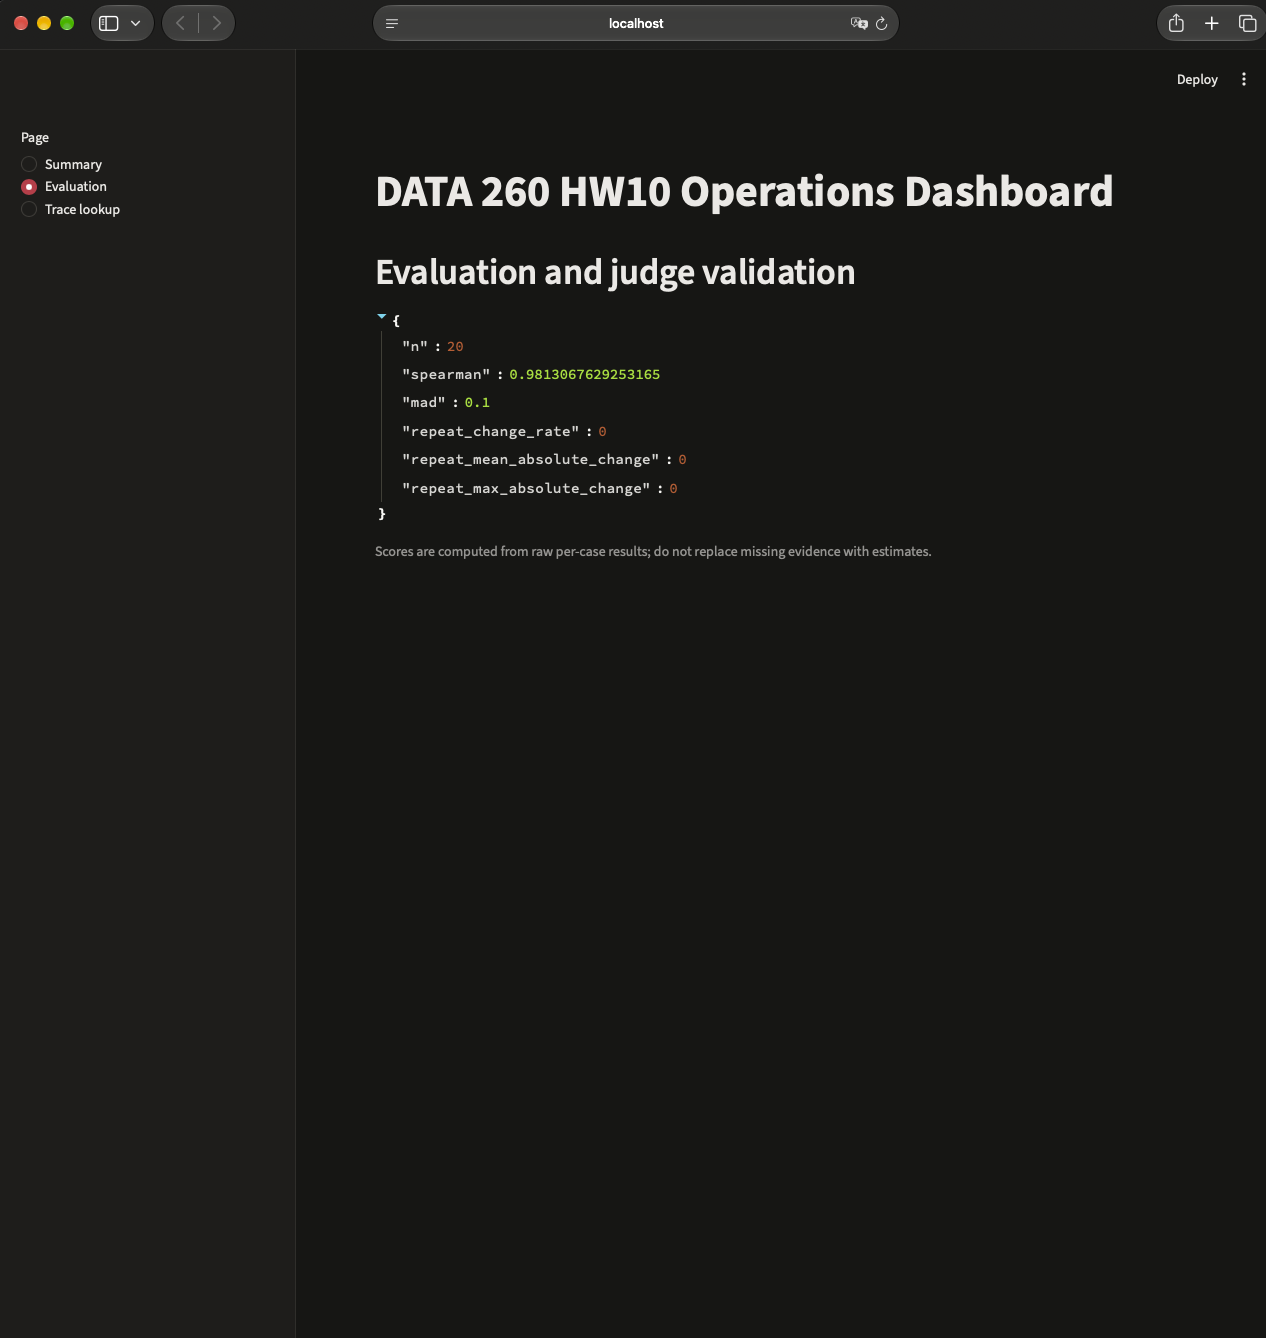
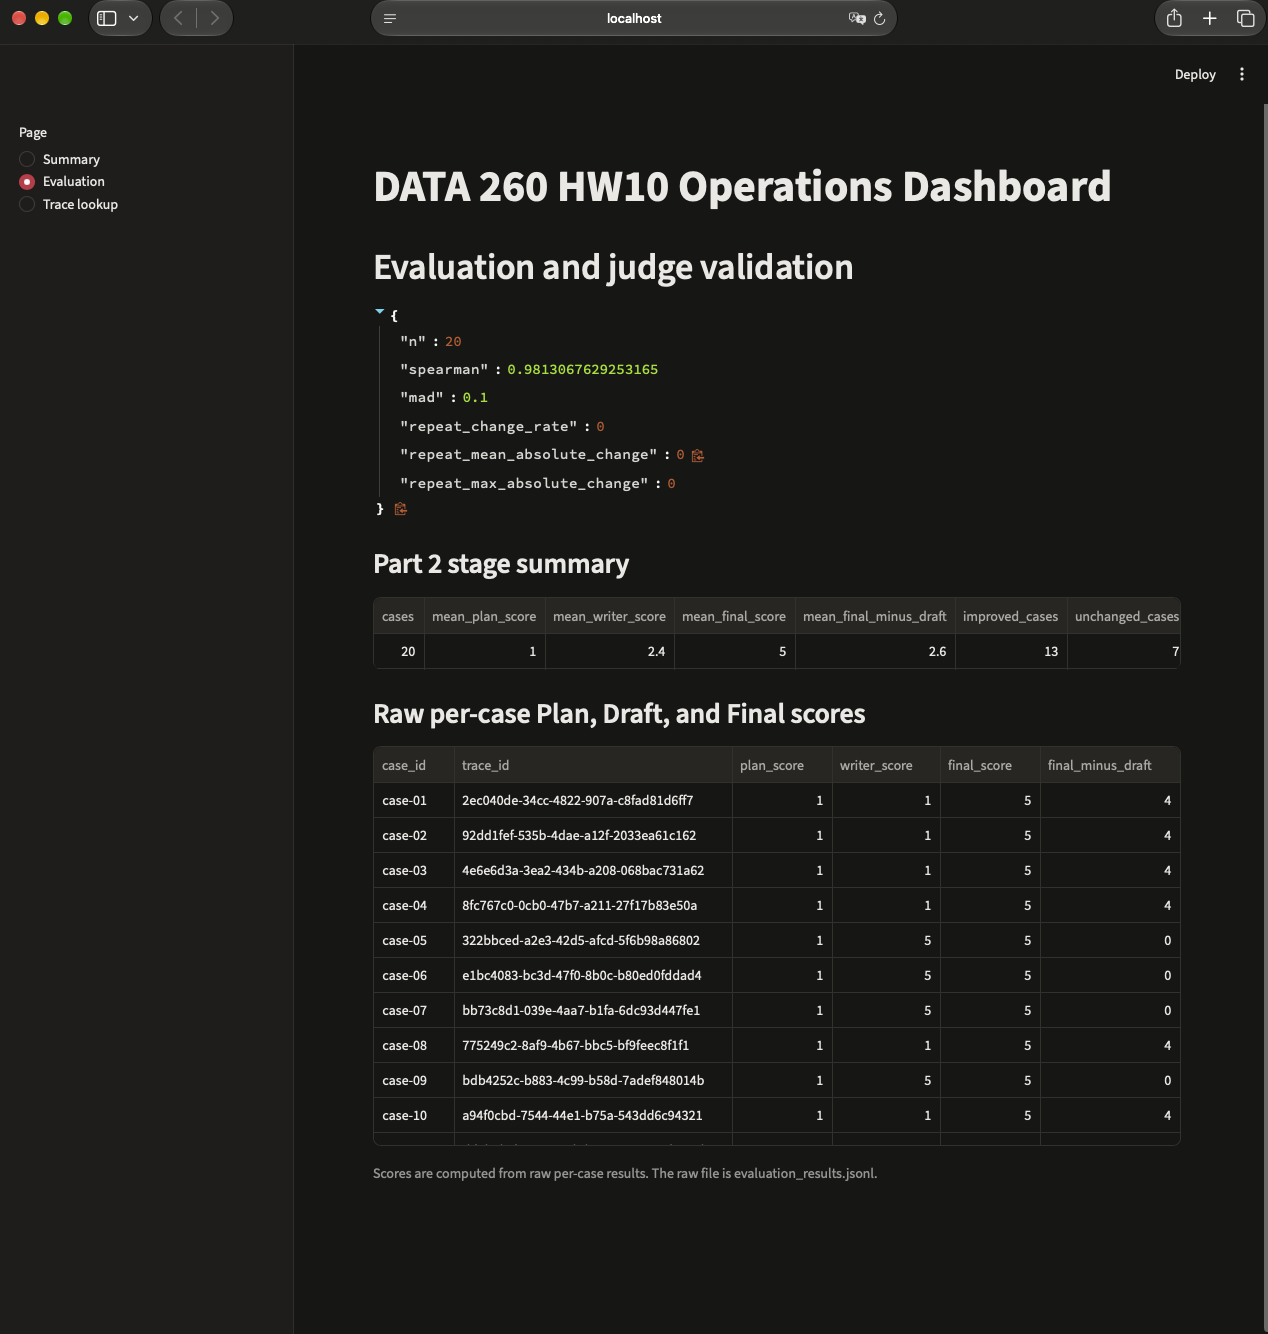
Add Part 2 stage evaluation dashboard

diff --git a/code/hw10/dashboard/app.py b/code/hw10/dashboard/app.py
@@ -69,7 +69,47 @@ if page == "Summary":
 elif page == "Evaluation":
     st.header("Evaluation and judge validation")
     st.json(metrics)
-    st.caption("Scores are computed from raw per-case results; do not replace missing evidence with estimates.")
+
+    part2 = load_json("part2_metrics.json")
+    if part2:
+        st.subheader("Part 2 stage summary")
+        st.dataframe(
+            pd.DataFrame([{
+                "cases": part2.get("n"),
+                "mean_plan_score": part2.get("mean_plan_score"),
+                "mean_writer_score": part2.get("mean_writer_score"),
+                "mean_final_score": part2.get("mean_final_score"),
+                "mean_final_minus_draft": part2.get("mean_final_minus_draft"),
+                "improved_cases": part2.get("improved_cases"),
+                "unchanged_cases": part2.get("unchanged_cases"),
+                "worse_cases": part2.get("worse_cases"),
+            }]),
+            use_container_width=True,
+            hide_index=True,
+        )
+
+    stage_results = load_jsonl("evaluation_results.jsonl")
+    if not stage_results.empty:
+        st.subheader("Raw per-case Plan, Draft, and Final scores")
+        columns = [
+            "case_id",
+            "trace_id",
+            "plan_score",
+            "writer_score",
+            "final_score",
+            "final_minus_draft",
+        ]
+        available = [c for c in columns if c in stage_results.columns]
+        st.dataframe(
+            stage_results[available],
+            use_container_width=True,
+            hide_index=True,
+        )
+
+    st.caption(
+        "Scores are computed from raw per-case results. "
+        "The raw file is evaluation_results.jsonl."
+    )
 else:
     st.header("Trace lookup")
     examples = load_json("trace_examples.json")
